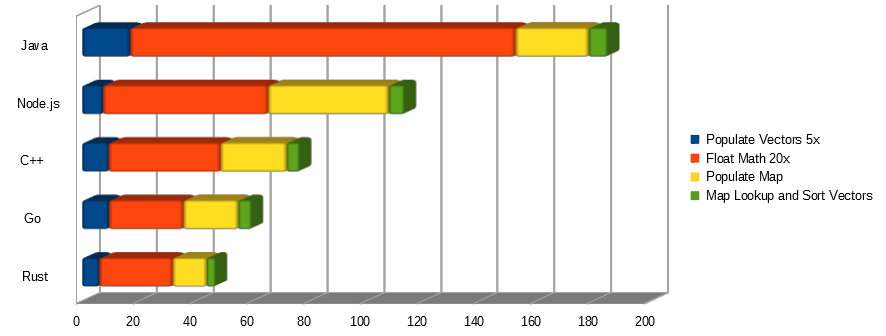
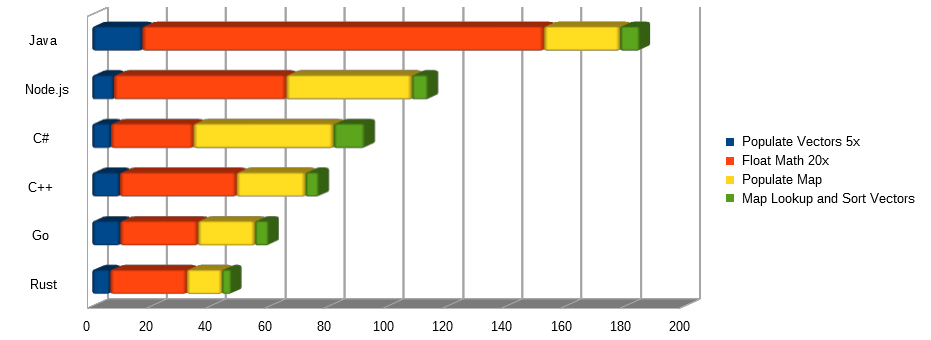
add C#

diff --git a/cs/Program.cs b/cs/Program.cs
@@ -1,0 +1,107 @@
+using System;
+using System.Collections.Generic;
+
+namespace cs
+{
+	class Program
+	{
+		static int ITERATIONS = 50000000;
+
+		static Random random = new Random();
+
+
+		static void Main(string[] args)
+		{
+
+			List<Double> v1 = new List<Double>(),
+				v2 = new List<Double>(),
+				vAdd = new List<Double>(),
+				vSub = new List<Double>(),
+				vMult = new List<Double>(),
+				vDiv = new List<Double>();
+
+			var startTime = DateTime.Now;
+
+			Console.WriteLine("Hello World!");
+
+			for (int j = 0; j < 5; j++) {
+				v1 = new List<Double>();
+				v2 = new List<Double>();
+				for (int i = 0; i < ITERATIONS; ++i) {
+					v1.Add(getRandomDouble());
+					v2.Add(getRandomDouble());
+				}
+			}
+			logTime("populate vectors 5x", startTime);
+
+			for (int j = 0; j < 20; ++j) {
+				for (int i = 0; i < v1.Count; ++i) {
+					vAdd.Add(v1[i] + v2[i]);
+				}
+				vAdd = new List<Double>();
+				
+				for (int i = 0; i < v1.Count; ++i) {
+					vSub.Add(v1[i] - v2[i]);
+				}
+				vSub = new List<Double>();
+		
+				for (int i = 0; i < v1.Count; ++i) {
+					vMult.Add(v1[i] * v2[i]);
+				}
+				vMult = new List<Double>();
+		
+				for (int i = 0; i < v1.Count; ++i) {
+					vDiv.Add(v1[i] / v2[i]);
+				}
+				vDiv = new List<Double>();
+			}
+			logTime("float math 20x", startTime);
+
+			Dictionary<String, int> bigDictionary = new Dictionary<String, int>();
+			List<int> mapValues = new List<int>();
+			List<String> vsKeys = new List<String>();
+		
+			for (int i = 0; i < ITERATIONS/10; ++i) {
+				bigDictionary.Add(getRandomString(255), random.Next());
+			}
+			logTime("populate map", startTime);
+
+			foreach (KeyValuePair<String, int> item in bigDictionary) {
+				mapValues.Add(item.Value);
+				vsKeys.Add(item.Key);
+			}
+			bigDictionary = new Dictionary<String, int>();
+
+			mapValues.Sort();
+			vsKeys.Sort();
+			mapValues = new List<int>();
+			vsKeys = new List<String>();
+			logTime("map lookup and sort vectors", startTime);
+		}
+
+		static String getRandomString(int length)
+		{
+			const String characters = "1234567890ABCDEFGHIJKLMNOPQRSTUVWXYZabcdefghijklmnopqrstuvwxyz";
+			String randomString = "";
+			int len = characters.Length;
+
+			for (int i = 0; i < length; ++i)
+			{
+				int index = Math.Abs(random.Next(0, len));
+				randomString += characters[index];
+			}
+
+			return randomString;
+		}
+		static void logTime(String message, DateTime startTime)
+		{
+			Console.WriteLine("{0} {1} seconds", message, (DateTime.Now - startTime).ToString());
+		}
+
+		static double getRandomDouble()
+		{
+			return random.NextDouble();
+		}
+	}
+
+}

diff --git a/README.md b/README.md
@@ -98,6 +98,25 @@ populate vectors 5x 86.8984260559082 seconds
 float math 20x 790.569694519043 seconds
 populate map 1535.5920796394348 seconds
 map lookup and sort vectors 1541.457656621933 seconds
+PS C:\Users\User\Documents\code\speed\python> cd ..\cs
+PS C:\Users\User\Documents\code\speed\cs> dotnet build -c Release
+Microsoft (R) Build Engine version 16.4.0+e901037fe for .NET Core
+Copyright (C) Microsoft Corporation. All rights reserved.
+
+  Restore completed in 15.73 ms for C:\Users\User\Documents\code\speed\cs\cs.csproj.
+  cs -> C:\Users\User\Documents\code\speed\cs\bin\Release\netcoreapp3.1\cs.dll
+
+Build succeeded.
+    0 Warning(s)
+    0 Error(s)
+
+Time Elapsed 00:00:00.45
+PS C:\Users\User\Documents\code\speed\cs> .\bin\Release\netcoreapp3.1\cs.exe
+Hello World!
+populate vectors 5x 00:00:06.2318781 seconds
+float math 20x 00:00:34.1078037 seconds
+populate map 00:01:21.4682599 seconds
+map lookup and sort vectors 00:01:32.0511950 seconds
 ```
 
 ## Overall Time
@@ -107,6 +126,7 @@ map lookup and sort vectors 1541.457656621933 seconds
 | Rust     | 5.972               | 31.88          | 43.812       | 46.922                      |
 | Go       | 9.347               | 35.626         | 54.925       | 59.57                       |
 | C++      | 9.241               | 48.668         | 71.995       | 76.511                      |
+| C#       | 6.231               | 34.107         | 81.468       | 92.051                      |
 | Node.js  | 7.234               | 65.406         | 107.923      | 113.425                     |
 | Java     | 16.824              | 152.517        | 178.268      | 184.97                      |
 | Python   | 86.898              | 790.569        | 1535.592     | 1541.457                    |
@@ -118,6 +138,7 @@ map lookup and sort vectors 1541.457656621933 seconds
 | Rust     | 5.972               | 25.908         | 11.932       | 3.11                        |
 | Go       | 9.347               | 26.279         | 19.299       | 4.645                       |
 | C++      | 9.241               | 39.427         | 23.327       | 4.515                       |
+| C#       | 6.231               | 27.876         | 47.361       | 10.583                      |
 | Node.js  | 7.234               | 58.172         | 42.517       | 5.502                       |
 | Java     | 16.824              | 135.693        | 25.751       | 6.702                       |
 | Python   | 86.898              | 703.671        | 745.023      | 5.865                       |
